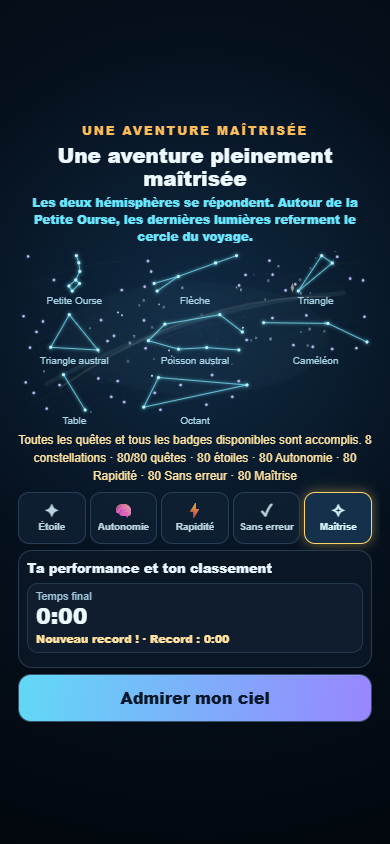
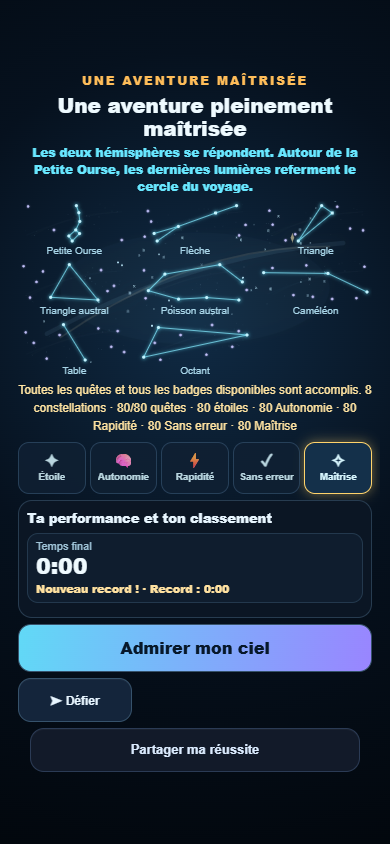
fix(#889): celestial scenes keep fitting with both Défier and Partager
A qualifying replay can now show Défier on an Adventure mastery scene; at
360x640 the card overflowed by 9 px (#705 contract). Same 38 px height as the
other celestial actions and tighter spacing when the share action is shown.

Changed region(s): [[0.0308, 0.0924, 0.9846, 0.9242], [0.9231, 0.4005, 0.9538, 0.4313]]

diff --git a/src/ui/styles.css b/src/ui/styles.css
@@ -1054,7 +1054,7 @@ body.account-switch-hold .mobile-auth-popover:not([hidden]){z-index:5100}
 .sky-reveal[data-celestial] [hidden]{display:none!important}
 .sky-reveal[data-celestial] .sky-reveal-card{display:flex;flex-direction:column;gap:8px;width:min(94vw,840px);max-height:calc(100dvh - 24px - env(safe-area-inset-top,0px) - env(safe-area-inset-bottom,0px));padding:20px;overflow:auto}
 /* #705: phones (360x640 and up) show the whole celebration and its CTA without scrolling. */
-@media(max-height:700px){#skyReveal[data-celestial] .sky-reveal-card{gap:5px}#skyReveal[data-celestial] .sky-reveal-title{font-size:20px}#skyReveal[data-celestial] .celestial-summary{font-size:11px;line-height:1.35}#skyReveal[data-celestial] .celestial-panorama{max-height:34dvh;min-height:90px}}
+@media(max-height:700px){#skyReveal[data-celestial] .victory-share-result{margin-top:0;min-height:38px}#skyReveal[data-celestial]:has(.victory-share-result:not([hidden])) .sky-reveal-card{gap:3px}#skyReveal[data-celestial] .sky-reveal-card{gap:5px}#skyReveal[data-celestial] .sky-reveal-title{font-size:20px}#skyReveal[data-celestial] .celestial-summary{font-size:11px;line-height:1.35}#skyReveal[data-celestial] .celestial-panorama{max-height:34dvh;min-height:90px}}
 /* #705: with the podium mounted (signed-in final victory or admin preview) the whole
    mastery screen still fits 360x640. The 140px compact podium rule lost to min-height:164px. */
 @media(max-height:700px){#skyReveal[data-celestial] .victory-performance-ranked .victory-podium-slot,#skyReveal[data-celestial] .victory-podium-slot .ranking{min-height:118px}#skyReveal[data-celestial] .victory-performance-title{position:absolute;width:1px;height:1px;overflow:hidden;clip-path:inset(50%)}#skyReveal[data-celestial] .victory-performance-row{min-height:0}#skyReveal[data-celestial] .sky-reveal-time.victory-time-note{font-size:12px}#skyReveal[data-celestial] .celestial-panorama{max-height:23dvh}#skyReveal[data-celestial] .victory-time,#skyReveal[data-celestial] .victory-rank{padding:4px 6px}#skyReveal[data-celestial] .victory-rank strong{font-size:14px}#skyReveal[data-celestial] .victory-rank small{font-size:10px}}

diff --git a/docs/UX_AND_VISUAL_DIRECTION.md b/docs/UX_AND_VISUAL_DIRECTION.md
@@ -358,7 +358,10 @@ existing limit is explicit, not a Mastery requirement. Do not substitute the new
 visible ordinal for a historical grid identity. A replay inside the qualification
 cooldown hides the action and explains it (« Défier demande une tentative
 qualifiante… Réessaie dans N min »); a qualifying replay, including an old save
-without performance metadata, may challenge (#889).
+without performance metadata, may challenge (#889). On a constellation/Adventure scene at
+heights up to 700 px, « Partager ma réussite » shares the 38 px height of the other
+celestial actions and the card spacing tightens, so « Défier » + « Partager » still
+fit without scrolling at 360×640 (#705).
 Repeated activation while creating a link sends one request; reopening that
 victory's sharing flow reuses its link and never awards campaign rewards again.
 Sharing leaves the victory behind the dialog, including at an Adventure boundary;
